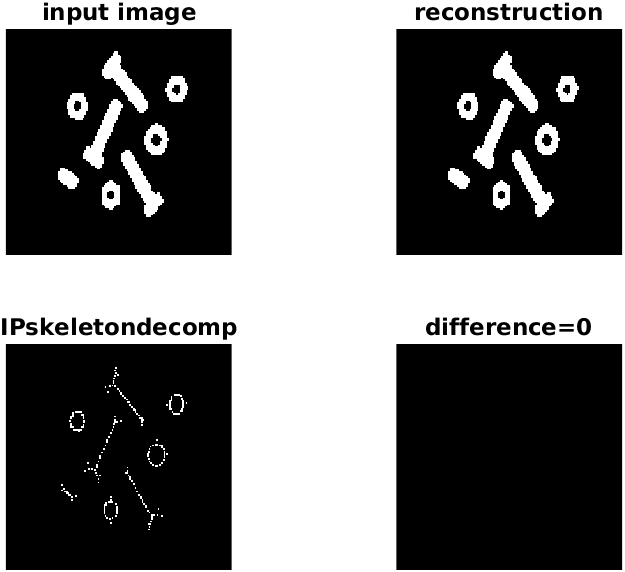
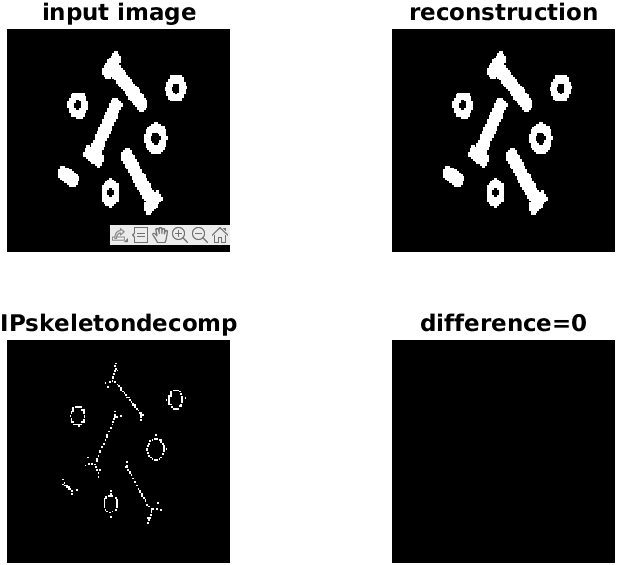
forgot to save the input image

diff --git a/Assignment_4/IPskeleton_test.m b/Assignment_4/IPskeleton_test.m
@@ -49,6 +49,9 @@ exportgraphics(gcf, ['output_plots/', imname, '_skeleton_test.png']);
 
 % Plot and save individual images
 figure;
+imshow(f)
+saveas(gcf, 'output_plots/skeleton_input.svg');
+figure;
 imshow(reconstruction)
 saveas(gcf, 'output_plots/skeleton_reconstruction.svg');
 figure;
